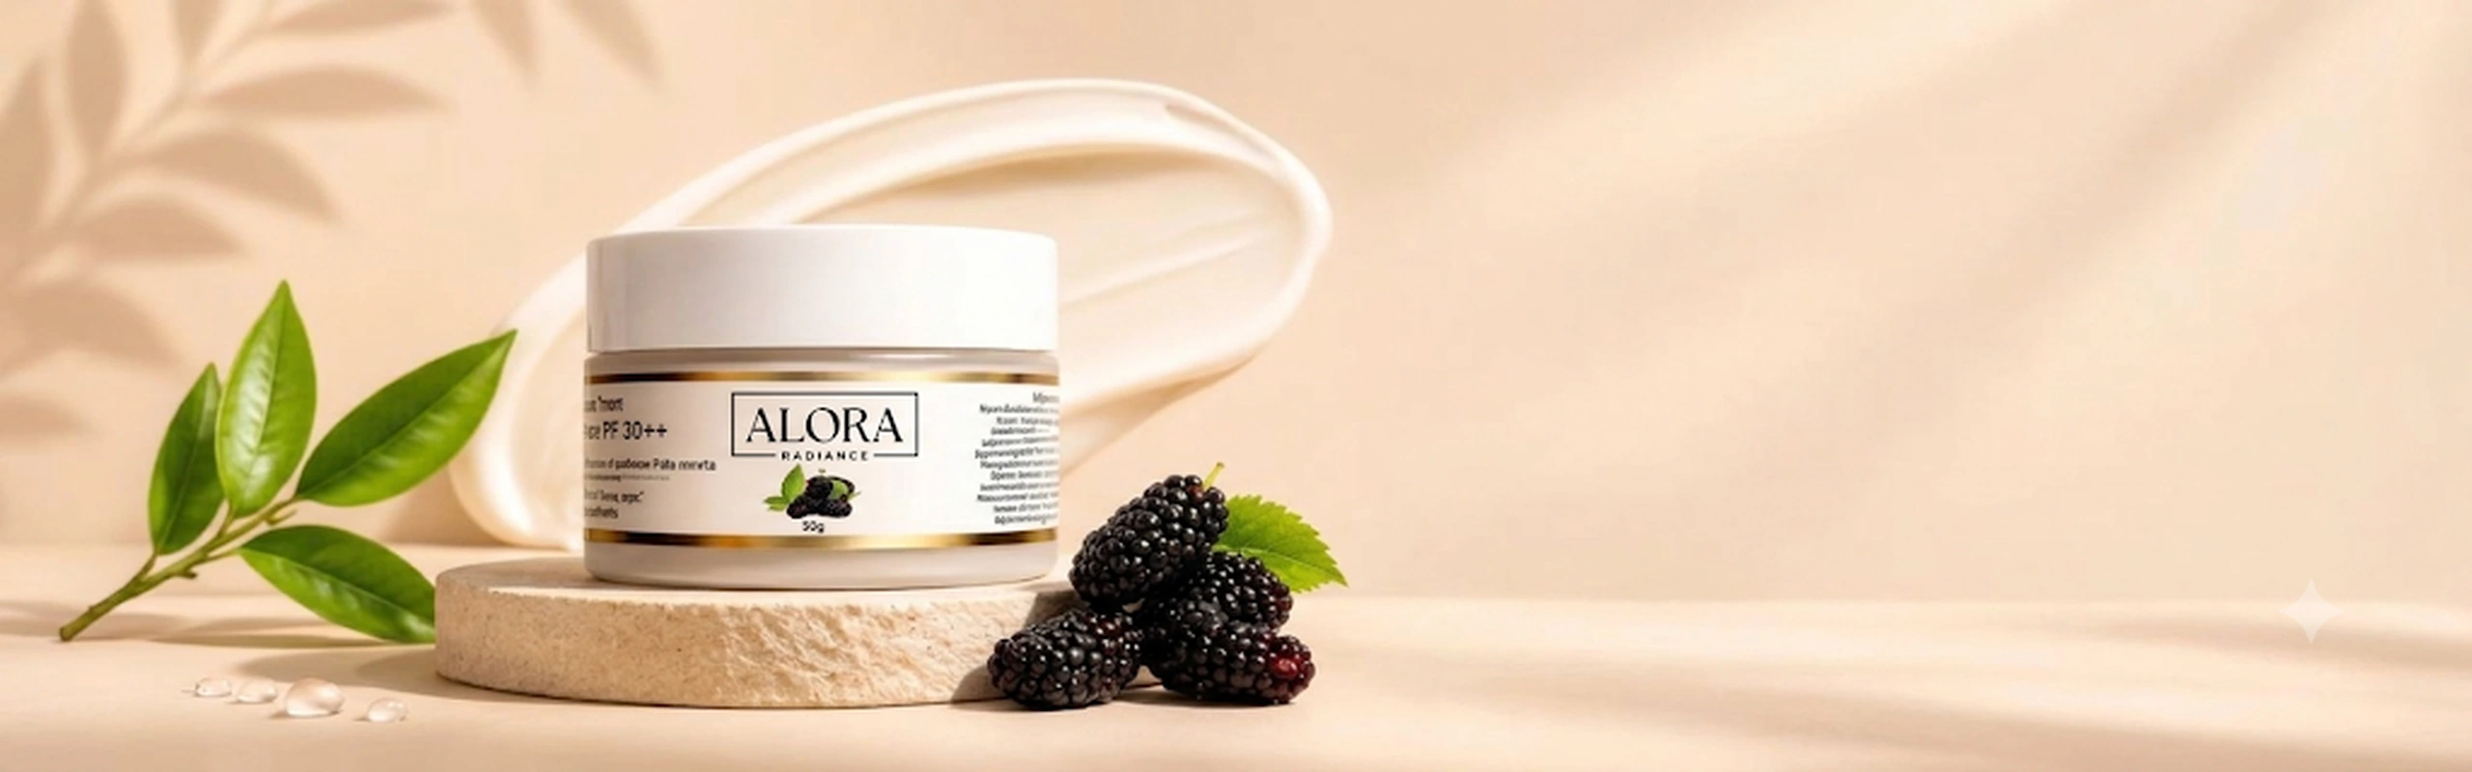
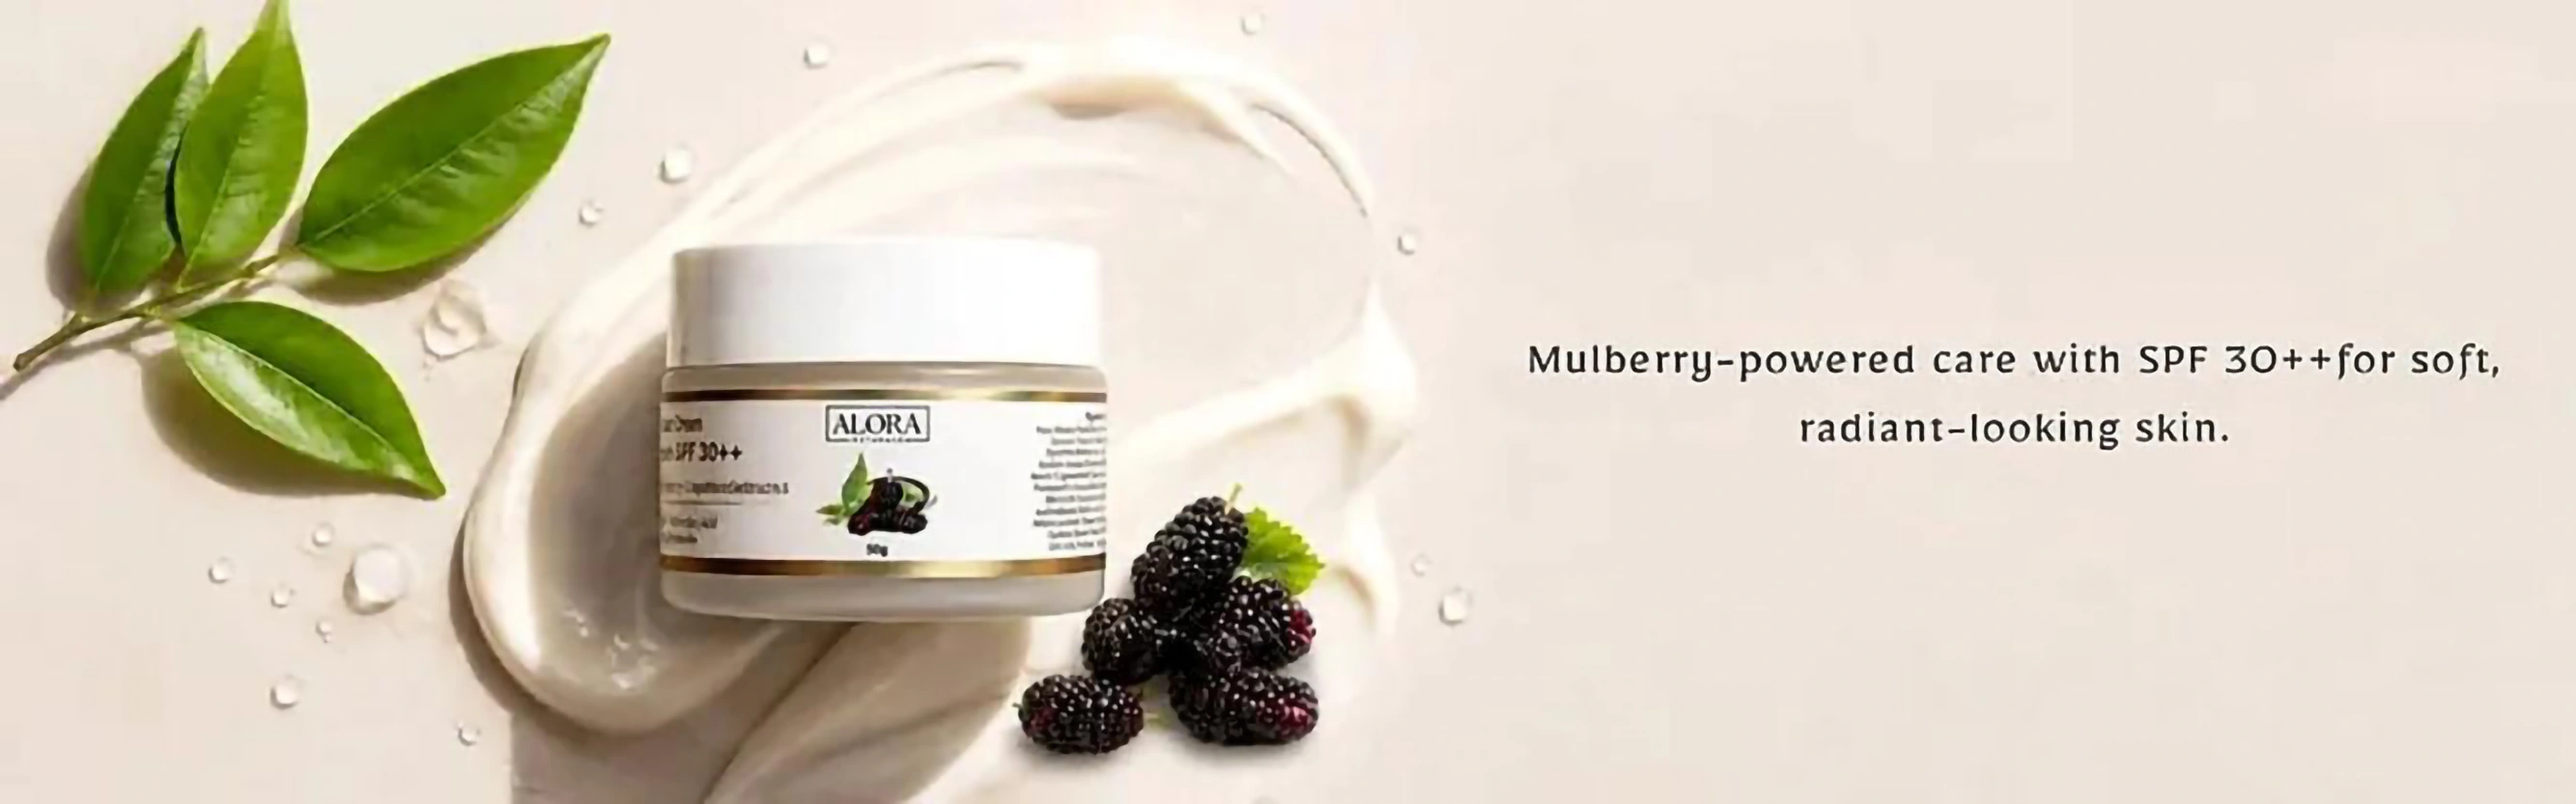
inital chnages

diff --git a/frontend/index.html b/frontend/index.html
@@ -968,57 +968,37 @@
 
     <!-- 1st Slide: All Products -->
     <a href="/products" class="hero-slide-link relative w-full shrink-0 block h-full bg-[#FBF7F0]">
-        <img src="./static/hero_banner_allproducts_desk_campaign.webp" alt="Alora Radiance Complete Skincare Collection Desktop" width="2560" height="800" fetchpriority="high" loading="eager" decoding="async" class="hero-desk-img">
-        <div class="hero-banner-copy hero-allproducts-copy">
-            <h2>Reveal Your Natural Radiance</h2>
-            <p>Cleanse. Exfoliate. Hydrate. Radiate.</p>
-        </div>
+        <img src="./static/hero_banner_allproducts_desk_campaign.webp" alt="Alora Radiance Complete Skincare Collection Desktop" width="2667" height="834" fetchpriority="high" loading="eager" decoding="async" class="hero-desk-img">
         <img src="./static/hero_banner_allproducts_mob_2x.webp" alt="Alora Radiance Complete Skincare Collection Mobile" width="2458" height="3072" fetchpriority="high" loading="eager" decoding="async" class="hero-mob-img">
     </a>
 
     <!-- 2nd Slide: Face Wash -->
     <a href="/product/purifying-glow-face-wash" class="hero-slide-link relative w-full shrink-0 block h-full bg-[#FBF7F0]">
-        <img src="./static/hero_banner_facewash_desk_campaign.webp" alt="Purifying Glow Face Wash Banner Desktop" width="2560" height="800" fetchpriority="low" loading="lazy" decoding="async" class="hero-desk-img">
-        <div class="hero-banner-copy hero-facewash-copy">
-            <h2>A gentle face wash enriched with saffron extract for clean, fresh-looking skin.</h2>
-        </div>
+        <img src="./static/hero_banner_facewash_desk_campaign.webp" alt="Purifying Glow Face Wash Banner Desktop" width="2667" height="833" fetchpriority="low" loading="lazy" decoding="async" class="hero-desk-img">
         <img src="./static/hero_banner_facewash_mob_2x.webp" alt="Purifying Glow Face Wash Banner Mobile" width="2458" height="3072" fetchpriority="low" loading="lazy" decoding="async" class="hero-mob-img">
     </a>
 
     <!-- 3rd Slide: Body Lotion -->
     <a href="/product/soothing-body-lotion" class="hero-slide-link relative w-full shrink-0 block h-full bg-[#FBF7F0]">
-        <img src="./static/hero_banner_bodylotion_desk_campaign.webp" alt="Soothing Body Lotion Banner Desktop" width="2560" height="800" loading="lazy" decoding="async" class="hero-desk-img">
-        <div class="hero-banner-copy hero-bodylotion-copy">
-            <h2>Deep hydration, lasting softness &mdash; powered by</h2>
-            <p>Hyaluronic Acid, Shea Butter &amp; Niacinamide</p>
-        </div>
+        <img src="./static/hero_banner_bodylotion_desk_campaign.webp" alt="Soothing Body Lotion Banner Desktop" width="2667" height="833" loading="lazy" decoding="async" class="hero-desk-img">
         <img src="./static/hero_banner_bodylotion_mob_2x.webp" alt="Soothing Body Lotion Banner Mobile" width="2458" height="3072" loading="lazy" decoding="async" class="hero-mob-img">
     </a>
 
     <!-- 4th Slide: Face Cream & Sunscreen -->
     <a href="/product/face-cream-sunscreen-spf-30" class="hero-slide-link relative w-full shrink-0 block h-full bg-[#FBF7F0]">
-        <img src="./static/hero_banner_facecream_desk_campaign.webp" alt="Mulberry Face Cream SPF 30++ Banner Desktop" width="2560" height="800" loading="lazy" decoding="async" class="hero-desk-img">
-        <div class="hero-banner-copy hero-facecream-copy">
-            <h2>Mulberry-powered care with SPF 30++ for soft, radiant-looking skin.</h2>
-        </div>
+        <img src="./static/hero_banner_facecream_desk_campaign.webp" alt="Mulberry Face Cream SPF 30++ Banner Desktop" width="2667" height="833" loading="lazy" decoding="async" class="hero-desk-img">
         <img src="./static/hero_banner_facecream_mob_2x.webp" alt="Mulberry Face Cream &amp; Sunscreen SPF 30++ Banner Mobile" width="2458" height="3072" loading="lazy" decoding="async" class="hero-mob-img">
     </a>
 
     <!-- 5th Slide: Face Serum -->
     <a href="/product/brightening-hydrating-face-serum" class="hero-slide-link relative w-full shrink-0 block h-full bg-[#FBF7F0]">
-        <img src="./static/hero_banner_faceserum_desk_campaign.webp" alt="Brightening &amp; Hydrating Face Serum Banner Desktop" width="2560" height="800" loading="lazy" decoding="async" class="hero-desk-img">
-        <div class="hero-banner-copy hero-faceserum-copy">
-            <h2>A lightweight serum that hydrates, nourishes and brightens the skin.</h2>
-        </div>
+        <img src="./static/hero_banner_faceserum_desk_campaign.webp" alt="Brightening &amp; Hydrating Face Serum Banner Desktop" width="2667" height="833" loading="lazy" decoding="async" class="hero-desk-img">
         <img src="./static/hero_banner_faceserum_mob_2x.webp" alt="Brightening &amp; Hydrating Face Serum Banner Mobile" width="2458" height="3072" loading="lazy" decoding="async" class="hero-mob-img">
     </a>
 
     <!-- 6th Slide: Walnut Scrub -->
     <a href="/product/gentle-exfoliating-walnut-scrub" class="hero-slide-link relative w-full shrink-0 block h-full bg-[#FBF7F0]">
-        <img src="./static/hero_banner_scrub_desk_campaign.webp" alt="Walnut Face Scrub Banner Desktop" width="2560" height="800" loading="lazy" decoding="async" class="hero-desk-img">
-        <div class="hero-banner-copy hero-scrub-copy">
-            <h2>Gentle Exfoliation for Fresh, Radiant Skin</h2>
-        </div>
+        <img src="./static/hero_banner_scrub_desk_campaign.webp" alt="Walnut Face Scrub Banner Desktop" width="4445" height="1389" loading="lazy" decoding="async" class="hero-desk-img">
         <img src="./static/hero_banner_scrub_mob_2x.webp" alt="Gentle Exfoliating Walnut Scrub Banner Mobile" width="2458" height="3072" loading="lazy" decoding="async" class="hero-mob-img">
     </a>
 
